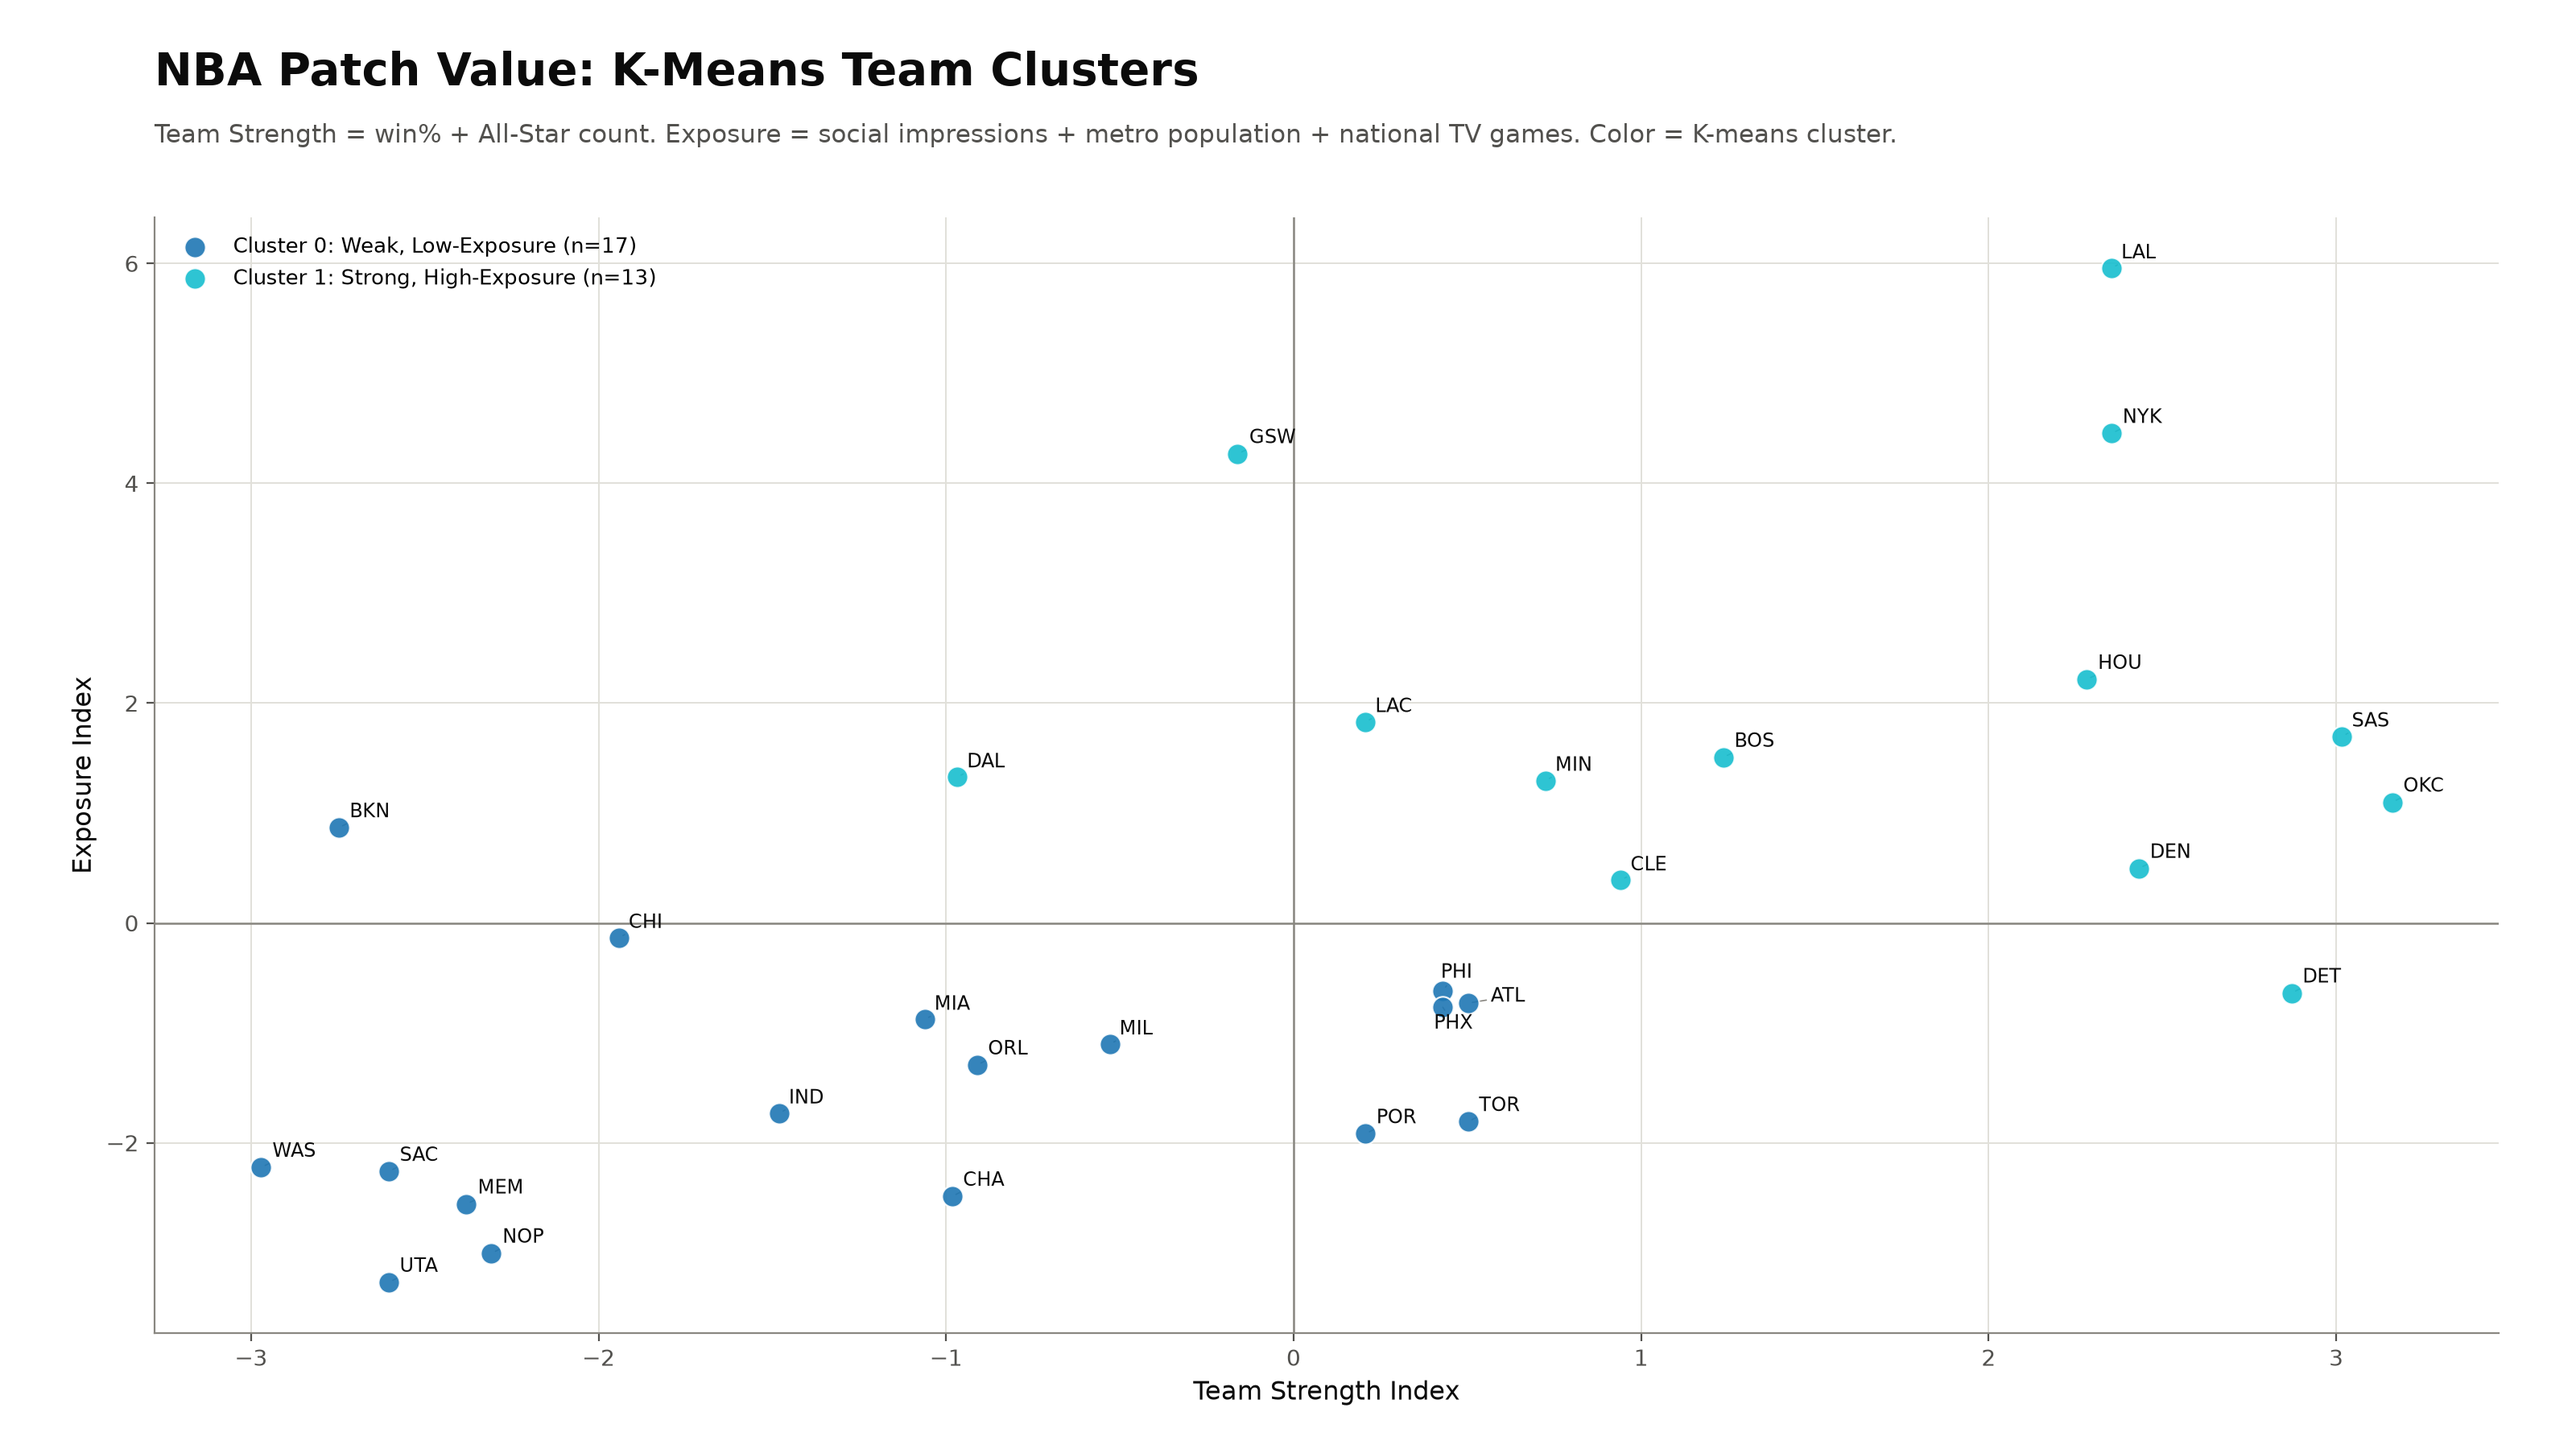
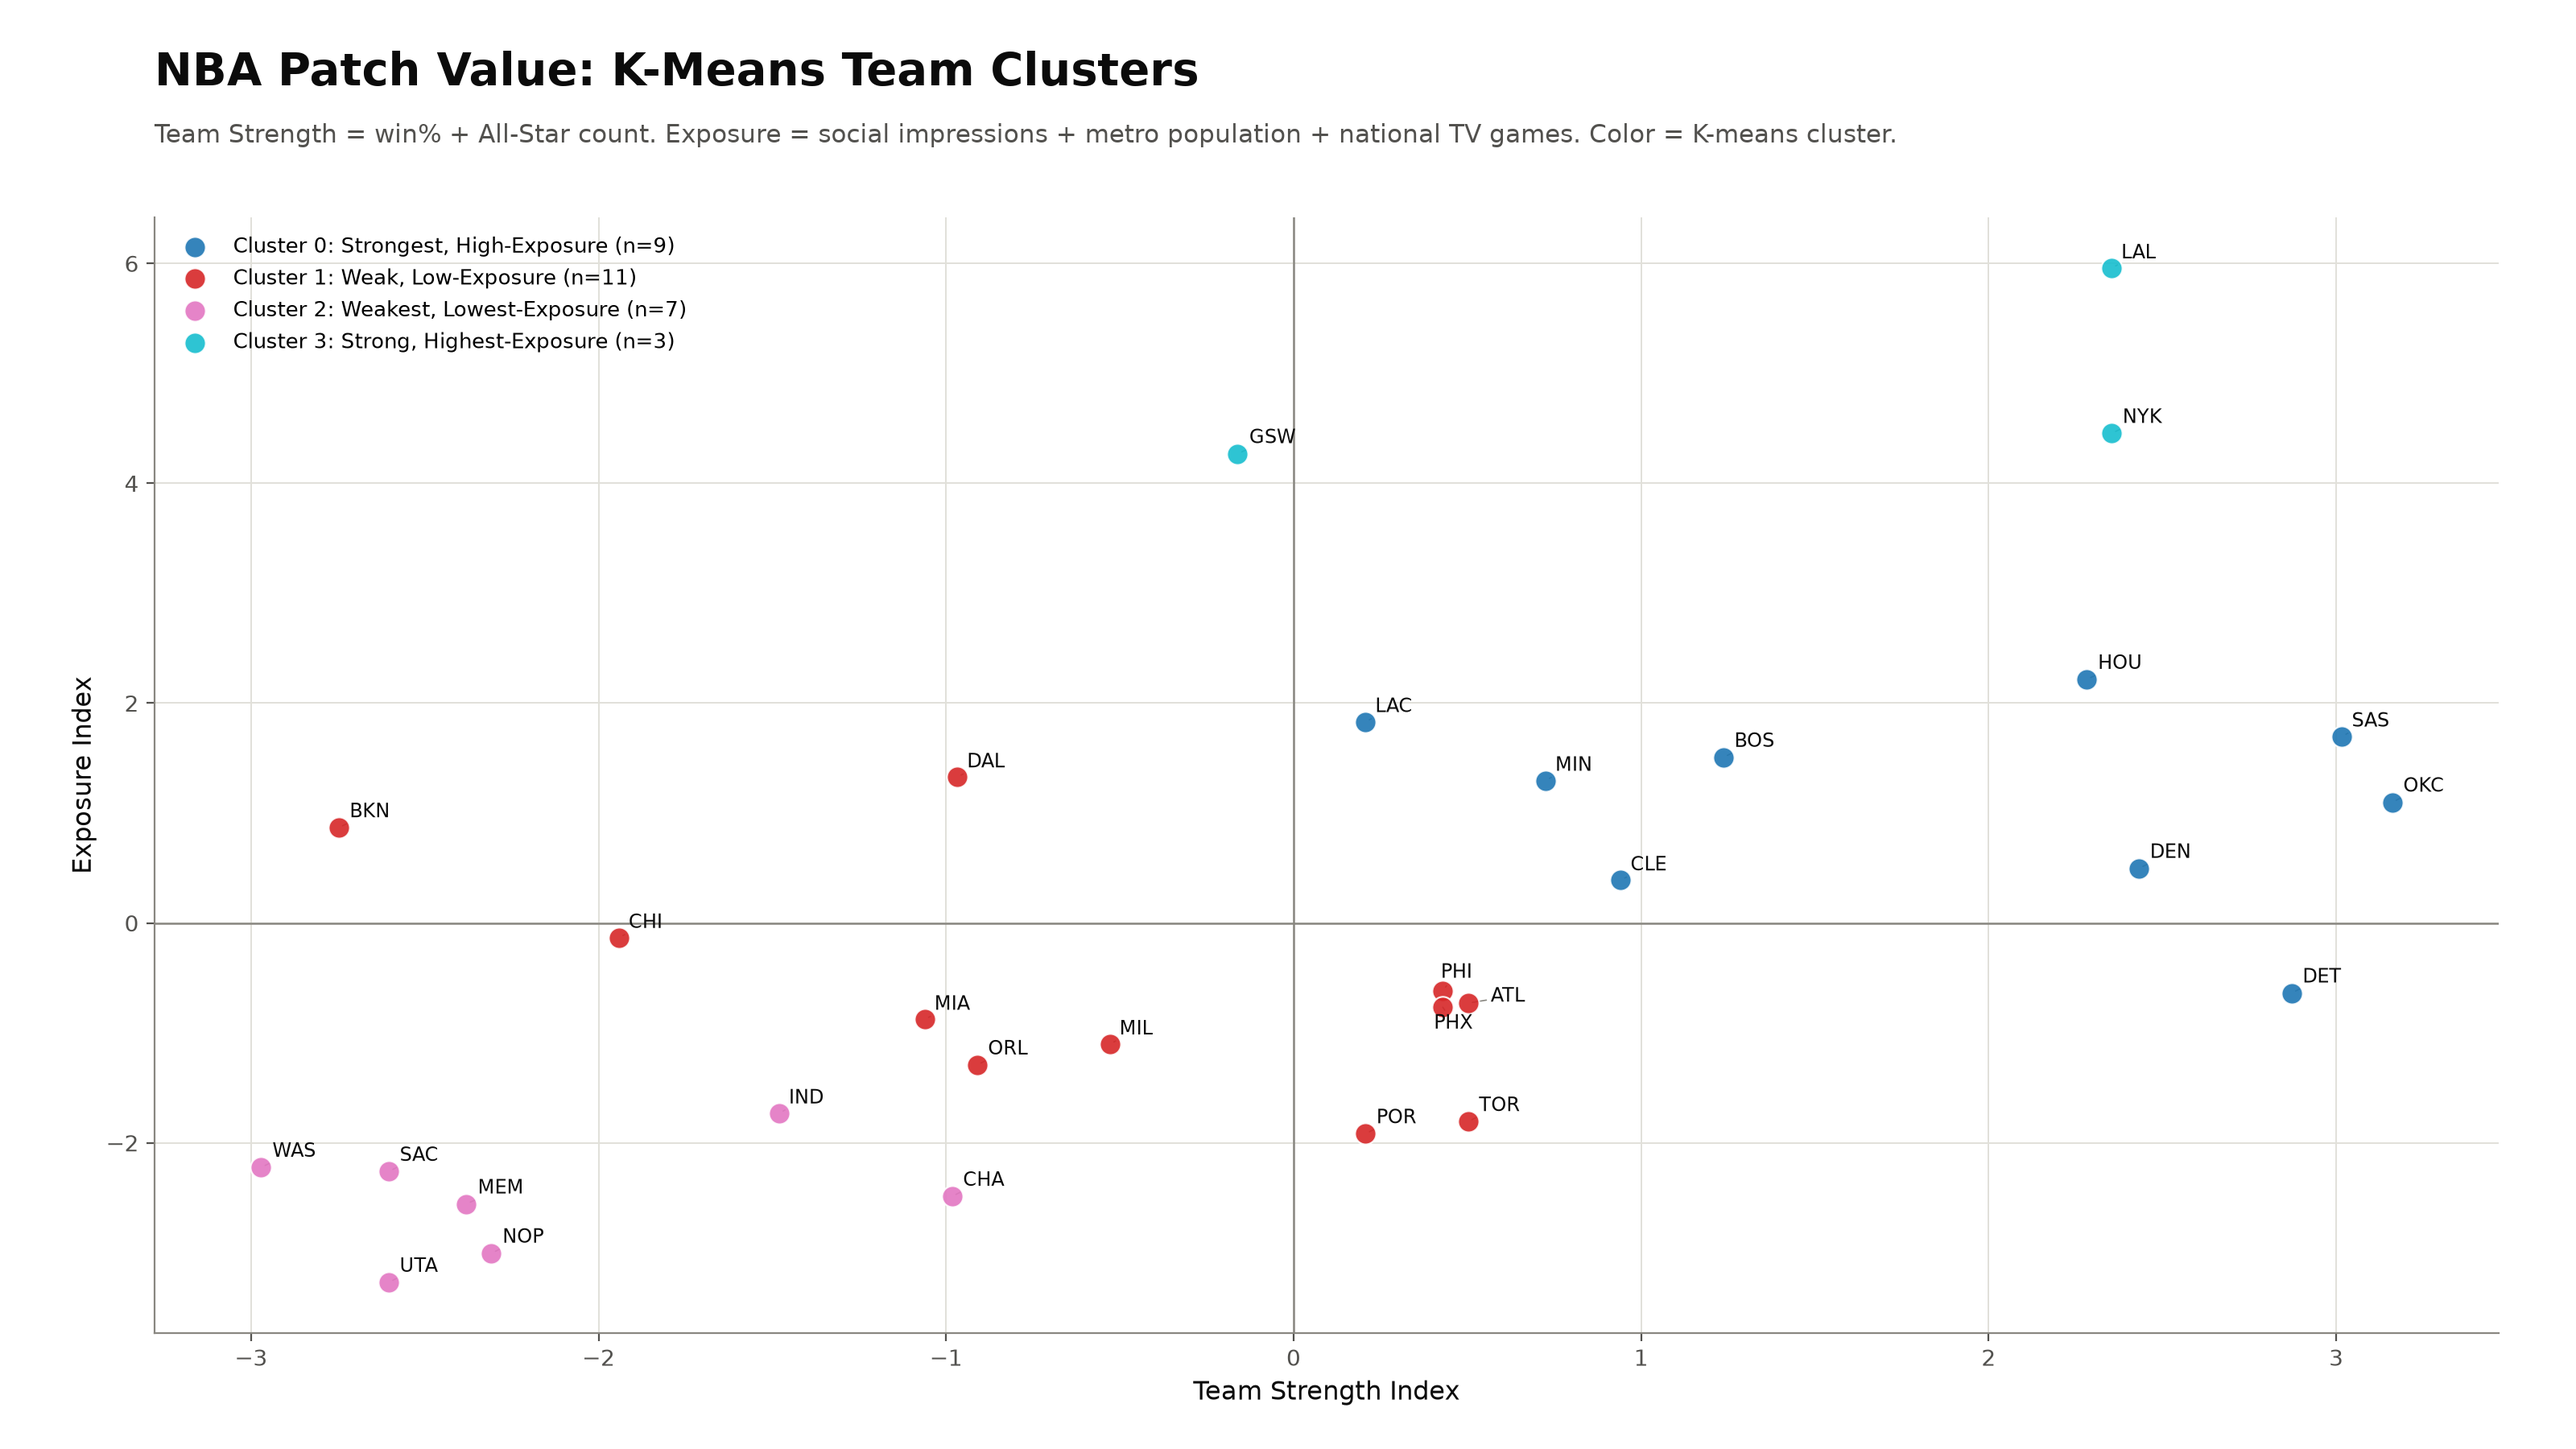
Force k=4 for continuity with the previous model, fix cluster-naming collision
k=4 set explicitly per request. Neither metric picks it on its own here
(silhouette peaks at k=2, elbow's steepest inertia drop is at k=3) -
stated plainly in the console output rather than overstated.

Also fixed a real bug this surfaced: the fixed-threshold naming function
gave two different clusters the identical name "Weak, Low-Exposure" (and
would have for "Strong, High-Exposure" too). Replaced with rank-based
naming - each cluster's descriptor comes from its relative rank among the
other clusters on each axis, not a fixed cutoff - which guarantees
distinct names and includes a collision check that warns if it ever fails.

Result with k=4: clusters now closely mirror the original followers-based
model (8/9, 10/11, 7/7, and 2/3 member overlap with the four old groups
respectively) - only LA Clippers, Brooklyn Nets, and New York Knicks
changed cluster.

Claude-Session: https://claude.ai/code/session_011dmqRCX3meF8tbZkeR883H

Changed region(s): [[0.0625, 0.1556, 0.25, 0.2489], [0.5625, 0.6844, 0.5938, 0.7156]]

diff --git a/jersey_patch_model/nba_kmeans_metro_pop.py b/jersey_patch_model/nba_kmeans_metro_pop.py
@@ -191,13 +191,15 @@ print(f"\nBest silhouette: k={best_sil_k} ({silhouettes[best_sil_k]:.3f}). "
       f"Steepest inertia drop: k={elbow_k} (inertia fell by {inertia_drops[elbow_k]:.1f} going into it).")
 
 if best_sil_k == elbow_k:
-    CHOSEN_K = best_sil_k
-    print(f"Elbow and silhouette agree on k={CHOSEN_K}.")
+    print(f"Elbow and silhouette agree on k={best_sil_k}.")
 else:
-    CHOSEN_K = best_sil_k
-    print(f"Elbow and silhouette DISAGREE (elbow points to k={elbow_k}, silhouette to k={best_sil_k}) -- "
-          f"going with the silhouette-best k={CHOSEN_K} since it directly measures cluster separation, "
-          f"but this is a judgment call, not a clean consensus.")
+    print(f"Elbow and silhouette DISAGREE (elbow points to k={elbow_k}, silhouette to k={best_sil_k}).")
+
+CHOSEN_K = 4
+print(f"Chosen k = {CHOSEN_K} (set explicitly, for continuity with the previous 4-cluster model). "
+      f"Neither metric actually picks k=4 on its own here: silhouette peaks at k={best_sil_k} "
+      f"({silhouettes[best_sil_k]:.3f} vs. k=4's {silhouettes[4]:.3f}), and the steepest inertia "
+      f"drop is at k={elbow_k}, not 4 -- noted plainly rather than overstating the fit.")
 
 kmeans = KMeans(n_clusters=CHOSEN_K, n_init=20, random_state=42)
 df["cluster"] = kmeans.fit_predict(X)
@@ -212,20 +214,38 @@ cluster_summary = df.groupby("cluster")[["team_strength", "exposure"]].mean()
 print("Centroids:")
 print(cluster_summary.round(3).to_string())
 
-def suggest_name(strength, exposure):
-    s_tag = "Strong" if strength > 0.3 else ("Weak" if strength < -0.3 else "Average")
-    e_tag = "High-Exposure" if exposure > 0.3 else ("Low-Exposure" if exposure < -0.3 else "Mid-Exposure")
-    return f"{s_tag}, {e_tag}"
+# Rank-based naming so names stay distinct regardless of k: each cluster's
+# label comes from its RANK on each axis (relative to the other clusters),
+# not a fixed absolute threshold -- fixed thresholds collided for k=4 here
+# (two low-exposure clusters both landed under the same "Low-Exposure" cutoff).
+STRENGTH_VOCAB = ["Strongest", "Stronger", "Strong", "Average", "Weak", "Weaker", "Weakest"]
+EXPOSURE_VOCAB = ["Highest-Exposure", "Higher-Exposure", "High-Exposure", "Mid-Exposure",
+                  "Low-Exposure", "Lower-Exposure", "Lowest-Exposure"]
+
+def rank_labels(k, vocab):
+    if k == 1:
+        return [vocab[len(vocab) // 2]]
+    idx = np.round(np.linspace(0, len(vocab) - 1, k)).astype(int)
+    return [vocab[i] for i in idx]
+
+strength_order = cluster_summary["team_strength"].sort_values(ascending=False).index.tolist()
+exposure_order = cluster_summary["exposure"].sort_values(ascending=False).index.tolist()
+strength_label_for = dict(zip(strength_order, rank_labels(CHOSEN_K, STRENGTH_VOCAB)))
+exposure_label_for = dict(zip(exposure_order, rank_labels(CHOSEN_K, EXPOSURE_VOCAB)))
 
 cluster_names = {}
 for cid, row in cluster_summary.iterrows():
-    name = suggest_name(row["team_strength"], row["exposure"])
+    name = f"{strength_label_for[cid]}, {exposure_label_for[cid]}"
     cluster_names[cid] = name
     members = sorted(df[df["cluster"] == cid].index.tolist())
     print(f"\nCluster {cid} - suggested name: \"{name}\"  (n={len(members)}, "
           f"centroid strength={row['team_strength']:.2f}, exposure={row['exposure']:.2f})")
     for m in members:
         print(f"  - {m}")
+
+if len(set(cluster_names.values())) < len(cluster_names):
+    print("\nWARNING: two clusters still produced the same suggested name -- "
+          "check cluster_summary above and name them manually for the poster.")
 
 
 # ---------------------------------------------------------------------------
